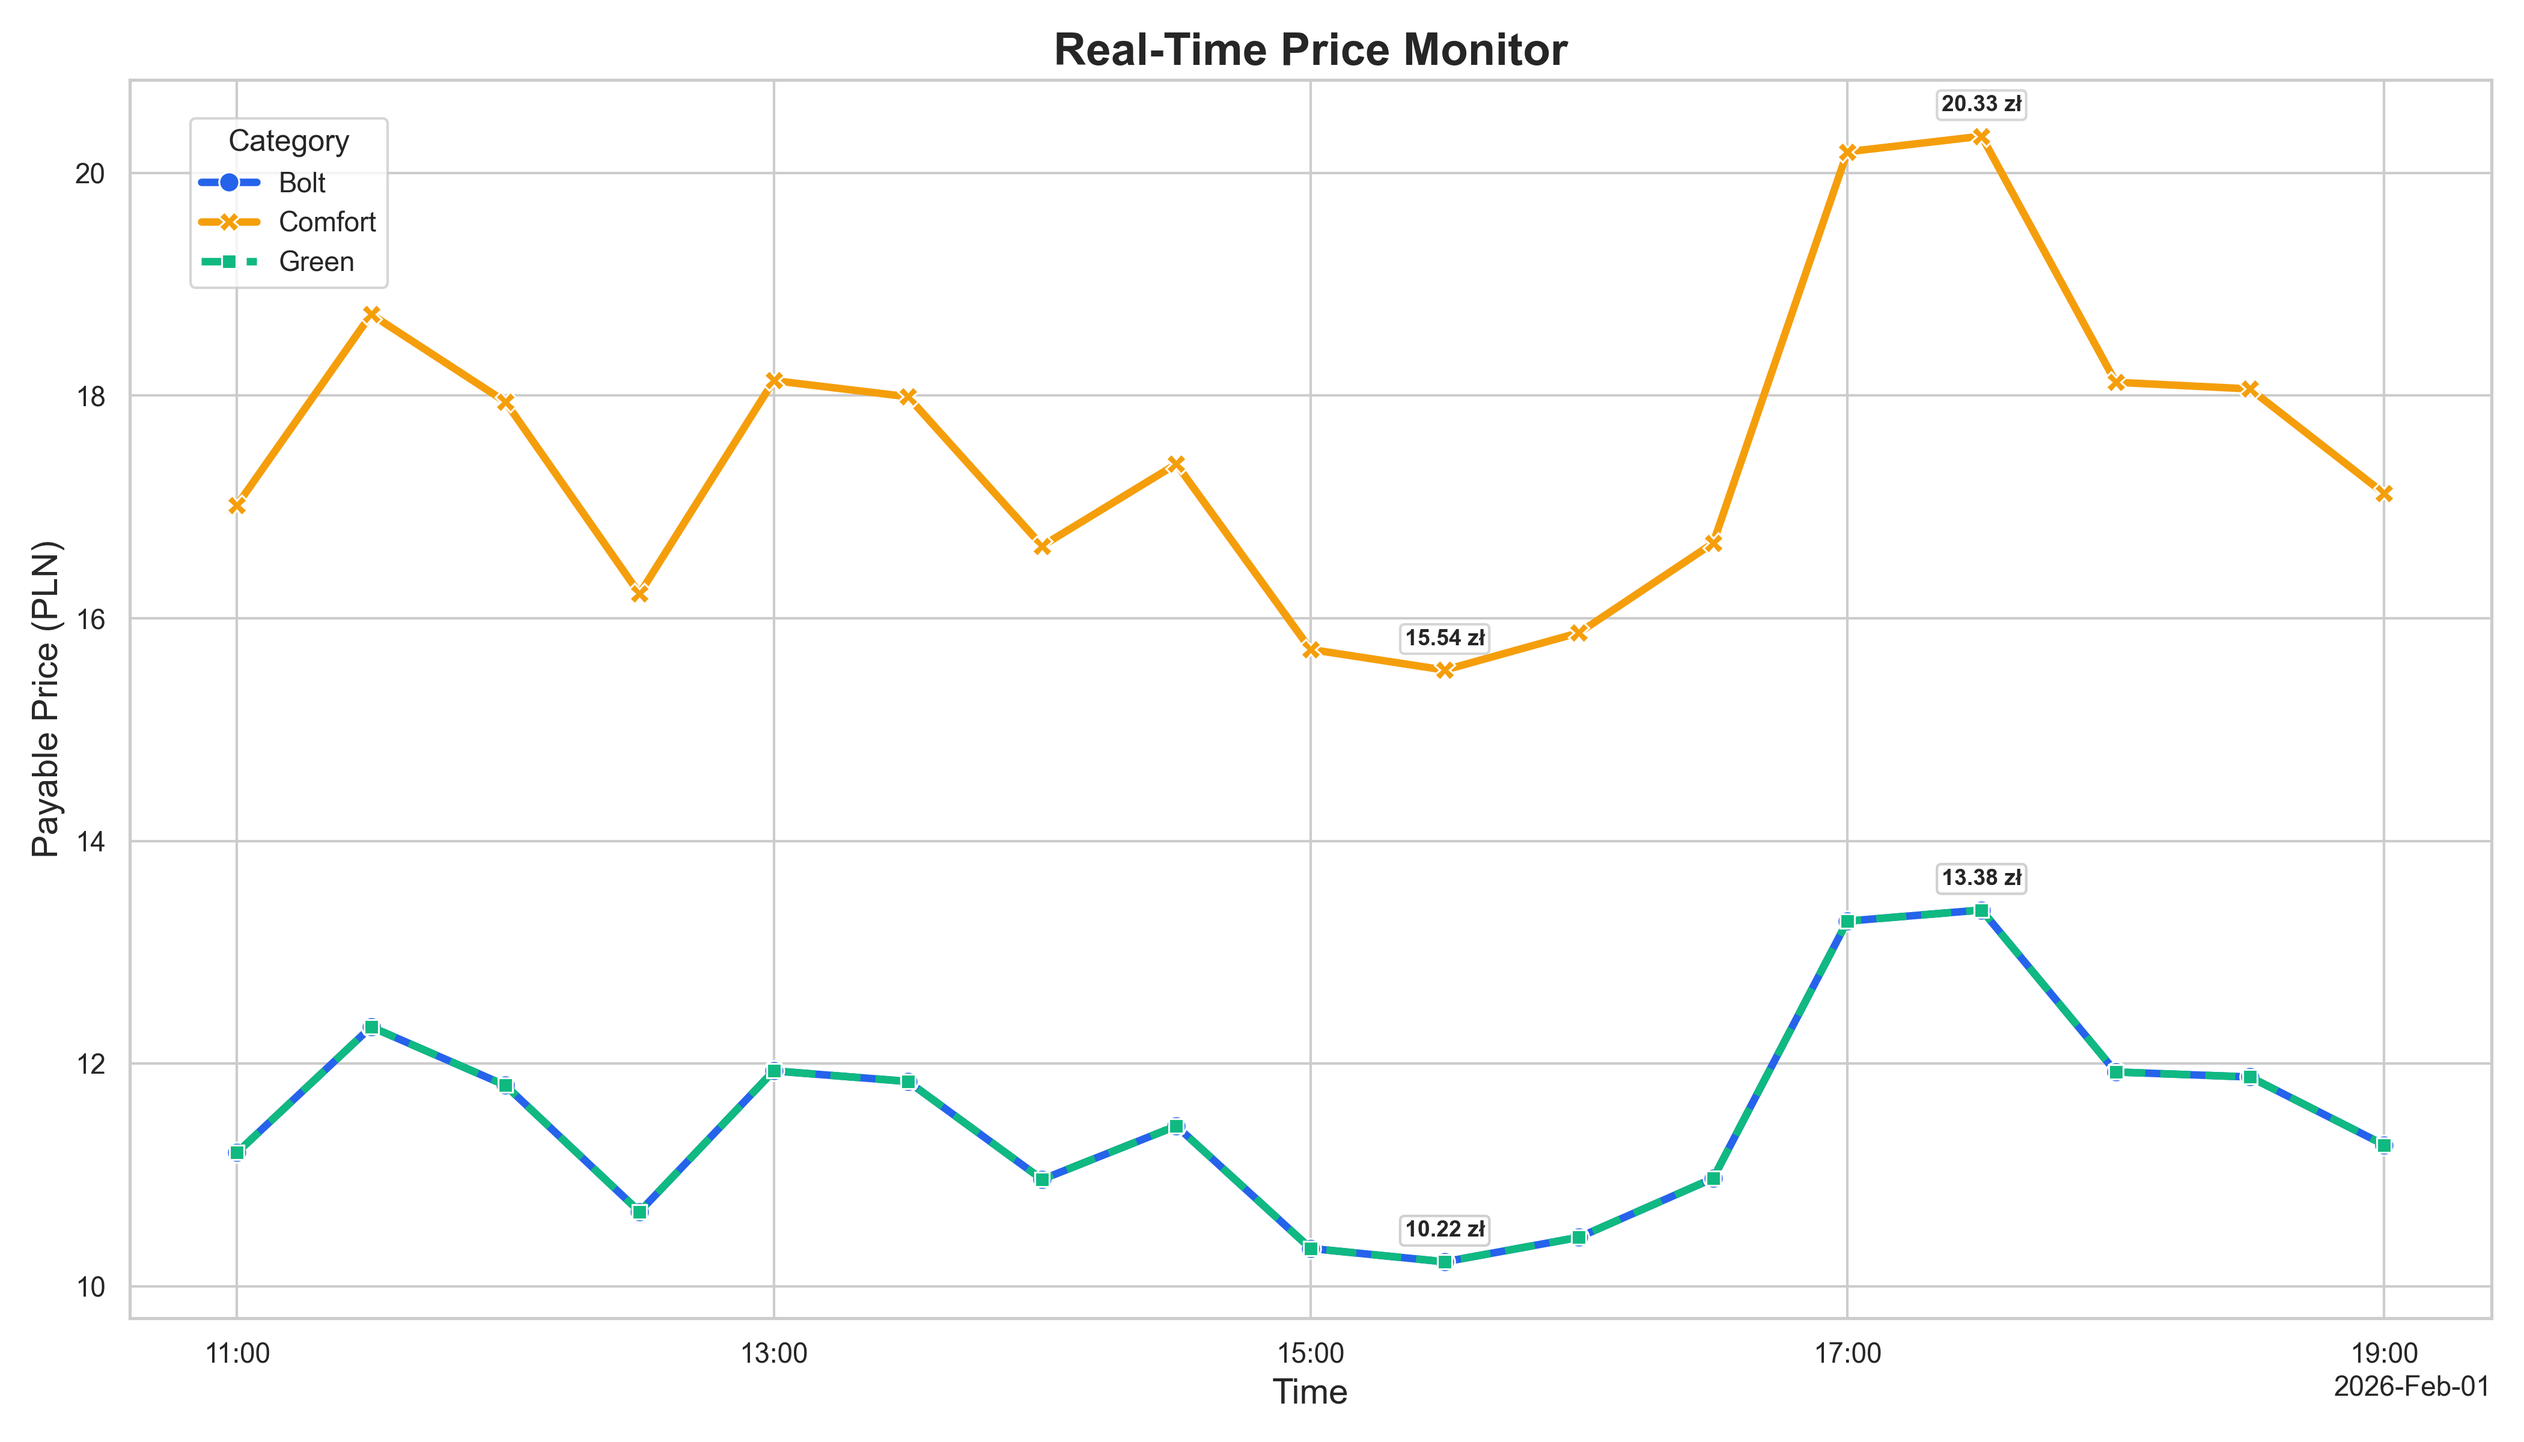
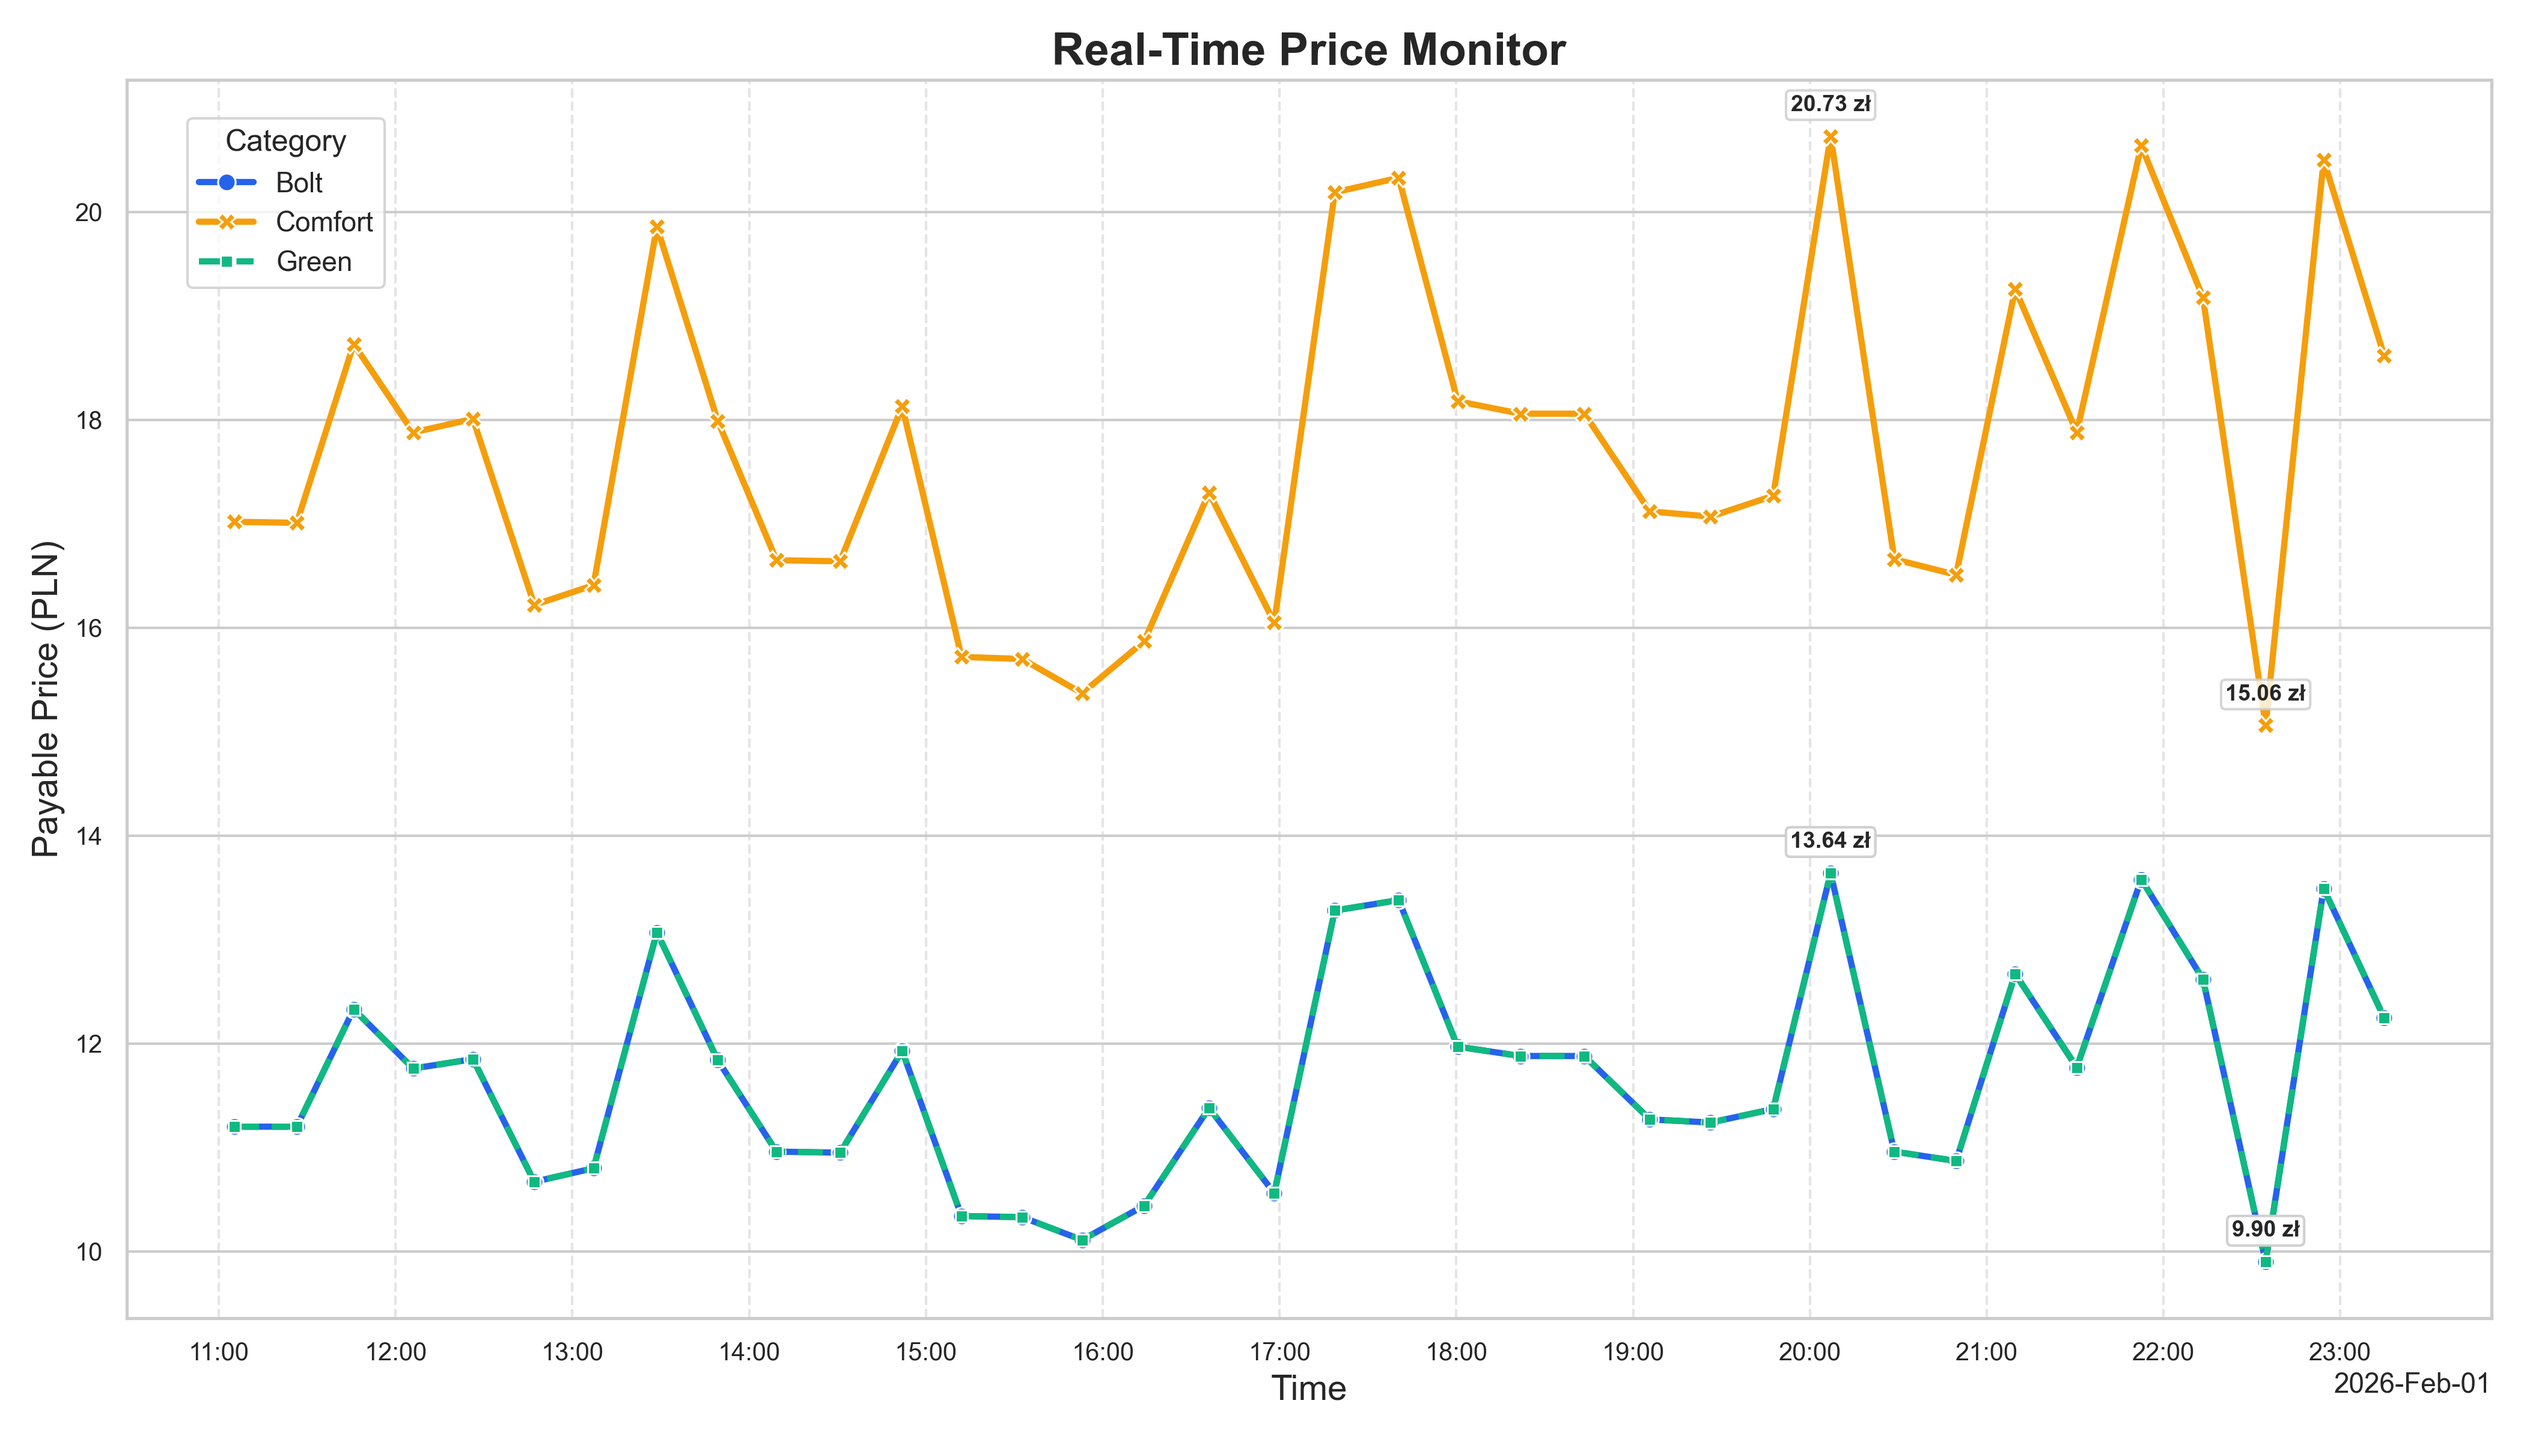
update chart

diff --git a/visualizer.py b/visualizer.py
@@ -5,19 +5,24 @@ import matplotlib.dates as mdates
 import seaborn as sns
 from matplotlib.ticker import MultipleLocator
 from config import Config
+import numpy as np
 
 def parse_price(price_str):
+    """Cleans price string to float."""
     return float(price_str.replace('zł', '').replace(',', '.').replace('\xa0', '').strip())
 
 def add_price_labels(ax, df):
+    """Adds labels to the Min and Max price points for each category."""
     for cat in df['Category'].unique():
         cat_data = df[df['Category'] == cat].dropna(subset=['Price'])
         
         if cat_data.empty: continue
 
+        # Find min and max points
         max_point = cat_data.loc[cat_data['Price'].idxmax()]
         min_point = cat_data.loc[cat_data['Price'].idxmin()]
         
+        # Build list of points to label (avoid duplicates if min == max)
         points_to_label = [max_point]
         if min_point['Time'] != max_point['Time']:
             points_to_label.append(min_point)
@@ -34,6 +39,35 @@ def add_price_labels(ax, df):
                 bbox=dict(boxstyle="round,pad=0.2", fc="white", ec="#cccccc", alpha=0.8)
             )
 
+def insert_gaps(df, gap_threshold='1h'):
+    """
+    Inserts empty rows (NaN) where the gap between measurements exceeds gap_threshold.
+    Prevents connecting distant points with a line on the chart.
+    """
+    df = df.sort_values('Time')
+    df['delta'] = df['Time'].diff()
+    
+    gap_mask = df['delta'] > pd.to_timedelta(gap_threshold)
+    
+    # Create a list of "artificial" rows with NaN to insert into gaps
+    gap_rows = []
+    for idx in df[gap_mask].index:
+        gap_time = df.loc[idx, 'Time'] - pd.to_timedelta('1s')
+        gap_row = df.loc[idx].copy()
+        gap_row['Time'] = gap_time
+        gap_row['Price'] = np.nan
+        gap_rows.append(gap_row)
+    
+    if not gap_rows:
+        return df.drop(columns=['delta'])
+    
+    # Combine original data with "gaps" and sort
+    df_gaps = pd.DataFrame(gap_rows)
+    df_final = pd.concat([df, df_gaps], ignore_index=True)
+    df_final = df_final.sort_values('Time').reset_index(drop=True)
+    
+    return df_final.drop(columns=['delta'])
+
 def generate_comparison_chart():
     try:
         df = pd.read_csv(Config.CSV_FILE)
@@ -48,17 +82,17 @@ def generate_comparison_chart():
 
     print(f"Processing data for: {TARGET_CATEGORIES}...")
 
+    # --- PARSING ---
     for _, row in df.iterrows():
         try:
             options = json.loads(row['options'])
-            
             for cat, val in options.items():
-                if cat not in TARGET_CATEGORIES:
-                    continue
+                if cat not in TARGET_CATEGORIES: continue
 
+                # Logic for double prices "11,20 zł | 22,39 zł"
                 if "|" in val:
                     parts = val.split("|")
-                    price_final = parse_price(parts[0])
+                    price_final = parse_price(parts[0]) # Take the first (discounted) price
                 else:
                     price_final = parse_price(val)
 
@@ -67,41 +101,31 @@ def generate_comparison_chart():
                     'Category': cat,
                     'Price': price_final
                 })
-        except:
-            continue
+        except: continue
 
     if not plot_data:
-        print("No data found.")
+        print("No valid data found.")
         return
 
     raw_df = pd.DataFrame(plot_data)
-    raw_df = raw_df.set_index('Time')
-    
-    resampled_dfs = []
+
+    # Process each category separately to insert gaps where needed
+    processed_dfs = []
     for cat in TARGET_CATEGORIES:
         cat_df = raw_df[raw_df['Category'] == cat]
         if cat_df.empty: continue
         
-        cat_resampled = cat_df.resample('30min').mean(numeric_only=True)
-        cat_resampled['Category'] = cat
-        resampled_dfs.append(cat_resampled)
+        # Insert a gap if no data for over 65 minutes
+        cat_with_gaps = insert_gaps(cat_df, gap_threshold='65min')
+        processed_dfs.append(cat_with_gaps)
     
-    plot_df = pd.concat(resampled_dfs).reset_index()
+    plot_df = pd.concat(processed_dfs).reset_index(drop=True)
 
     plt.figure(figsize=(14, 8))
     sns.set_theme(style="whitegrid")
     
-    custom_palette = {
-        "Bolt": "#2563EB",
-        "Comfort": "#F59E0B",
-        "Green": "#10B981"
-    }
-    
-    custom_dashes = {
-        "Bolt": "",        
-        "Comfort": "",      
-        "Green": (4, 2)     
-    }
+    custom_palette = {"Bolt": "#2563EB", "Comfort": "#F59E0B", "Green": "#10B981"}
+    custom_dashes = {"Bolt": "", "Comfort": "", "Green": (4, 2)}
 
     ax = sns.lineplot(
         data=plot_df, 
@@ -111,33 +135,40 @@ def generate_comparison_chart():
         style='Category',       
         dashes=custom_dashes,   
         palette=custom_palette,
-        linewidth=3,            
+        linewidth=2.5,            
         markers=True,
-        markersize=8
+        markersize=7
     )
 
+    # Price labels (Min/Max)
     add_price_labels(ax, plot_df)
 
+    # --- FORMATTING ---
     plt.title('Real-Time Price Monitor', fontsize=18, fontweight='bold')
     plt.ylabel('Payable Price (PLN)', fontsize=14)
     plt.xlabel('Time', fontsize=14)
 
-    locator = mdates.HourLocator(interval=2) 
+    # X-Axis
+    locator = mdates.HourLocator(interval=1) # Every 1 hour for precision
     ax.xaxis.set_major_locator(locator)
-    
     formatter = mdates.ConciseDateFormatter(locator)
     ax.xaxis.set_major_formatter(formatter)
-    
-    plt.setp(ax.get_xticklabels(), fontsize=11)
+    plt.setp(ax.get_xticklabels(), fontsize=10)
 
+    # Y-Axis
     ax.yaxis.set_major_locator(MultipleLocator(2))
-    plt.setp(ax.get_yticklabels(), fontsize=11)
+    plt.setp(ax.get_yticklabels(), fontsize=10)
+
+    # Vertical grid for hours
+    ax.grid(True, which='major', axis='x', linestyle='--', alpha=0.5)
 
     plt.legend(bbox_to_anchor=(0.02, 0.98), loc='upper left', title="Category", frameon=True)
     
     plt.tight_layout()
+    
     plt.savefig(Config.CHART_FILE, dpi=300)
     print(f"Chart generated successfully: {Config.CHART_FILE}")
+    plt.show()
 
 if __name__ == "__main__":
     generate_comparison_chart()
